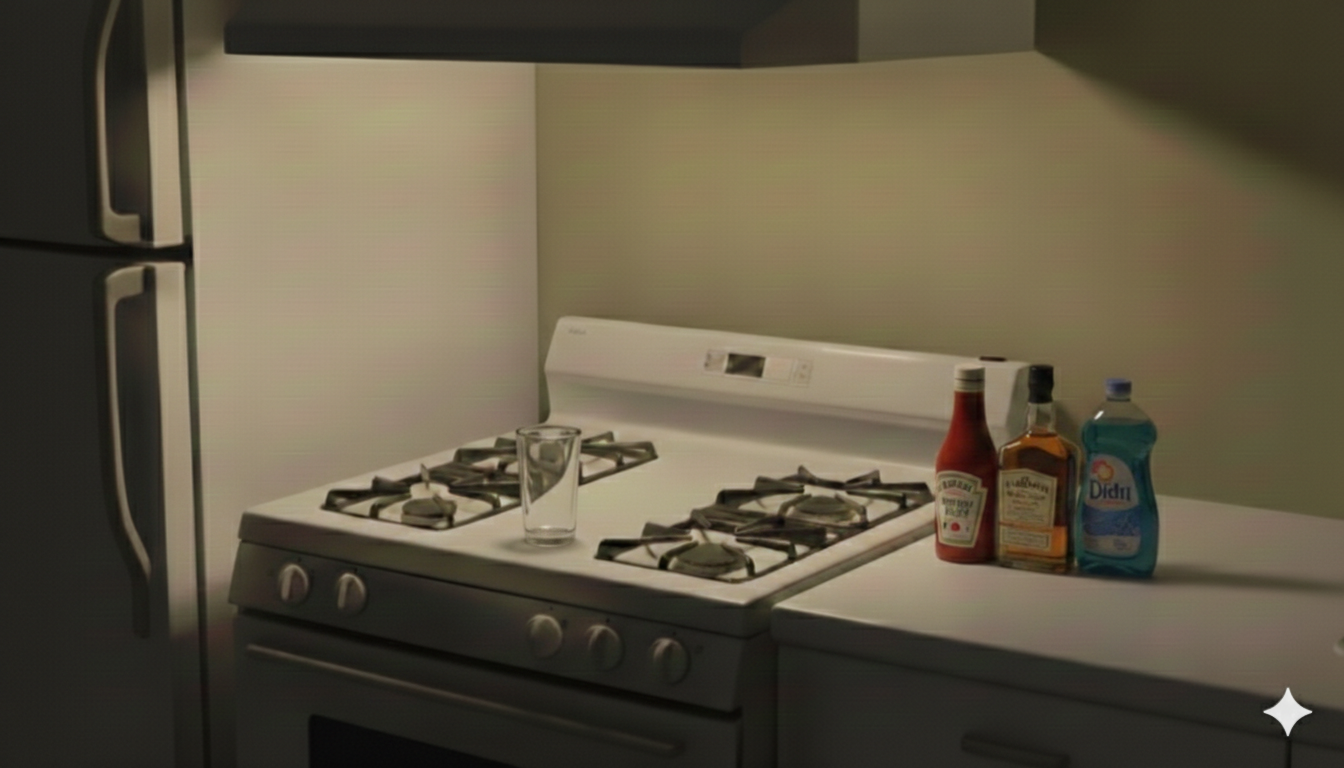
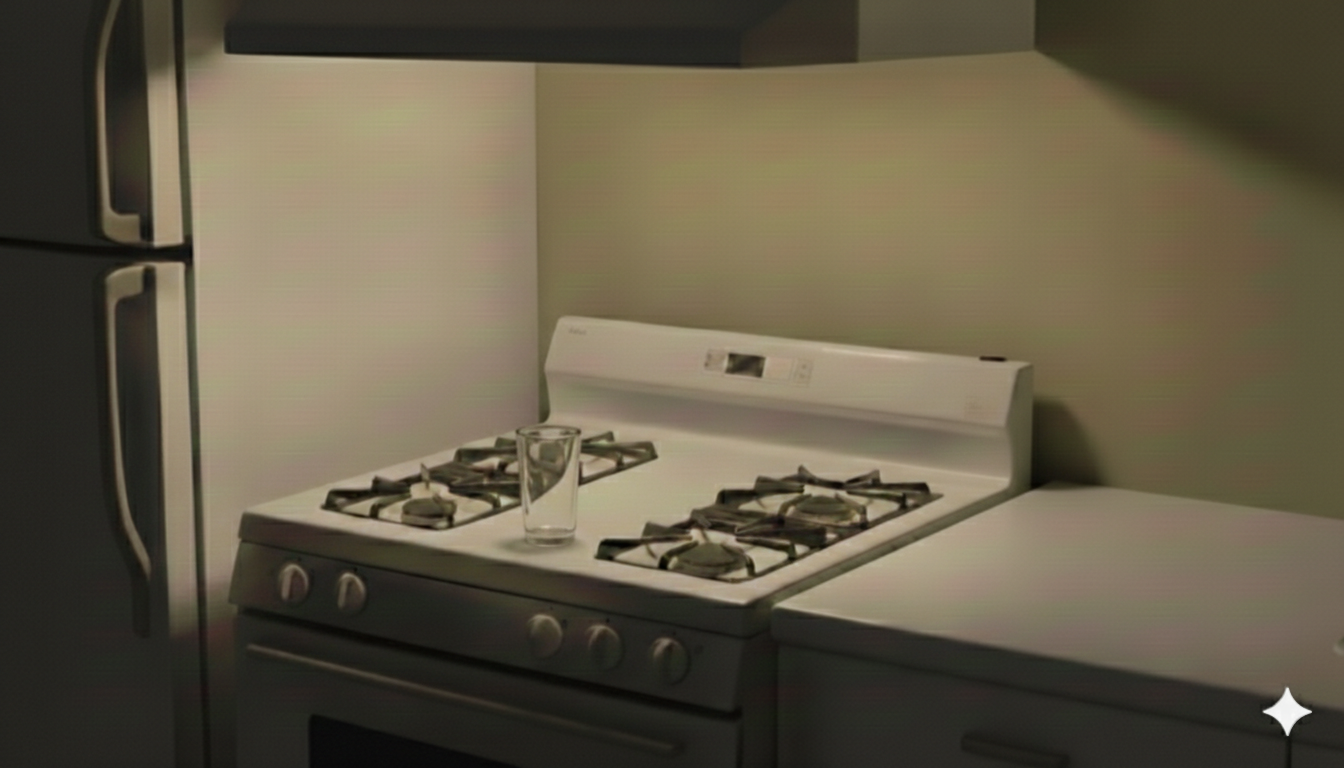
updated mixing game image and resized

Changed region(s): [[0.6875, 0.4688, 1.0, 0.7812]]

diff --git a/js/stages/room1.js b/js/stages/room1.js
@@ -46,9 +46,9 @@ export default {
         pot: { x: 640, y: 320, w: 200, h: 250 },
       },
       glass: {
-        ketchup: { x: 944, y: 370, w: 193, h: 220 },
-        dishsoap: { x: 942, y: 370, w: 200, h: 220 },
-        whiskey: { x: 955, y: 370, w: 220, h: 220 },
+        ketchup: { x: 944, y: 370, w: 76, h: 220 },
+        dishsoap: { x: 1135, y: 370, w: 89, h: 228 },
+        whiskey: { x: 1025, y: 370, w: 92, h: 224 },
         drop: { x: 500, y: 360, w: 120, h: 130 },
       },
     };
@@ -448,7 +448,7 @@ export default {
       if (scene !== "kitchen") return;
 
       scene = "stove";
-      await transitionBg("./assets/bg/pot-with-noodle-on-stove.png");
+      await transitionBg("./assets/bg/empty-pot-boiling-water.png");
 
       stoveBtn.style.display = "none";
       clearOverlays();
